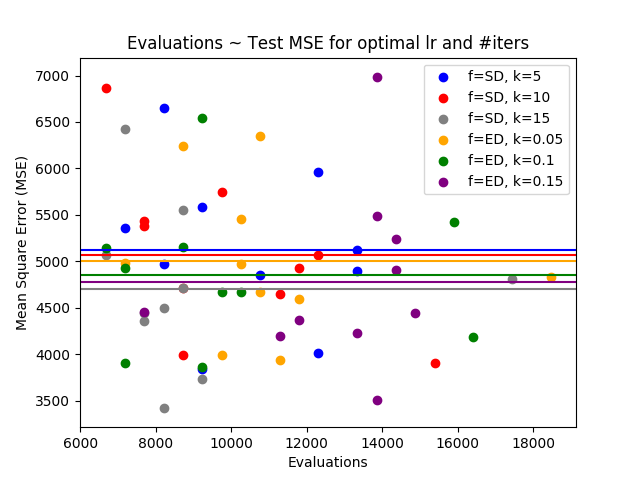
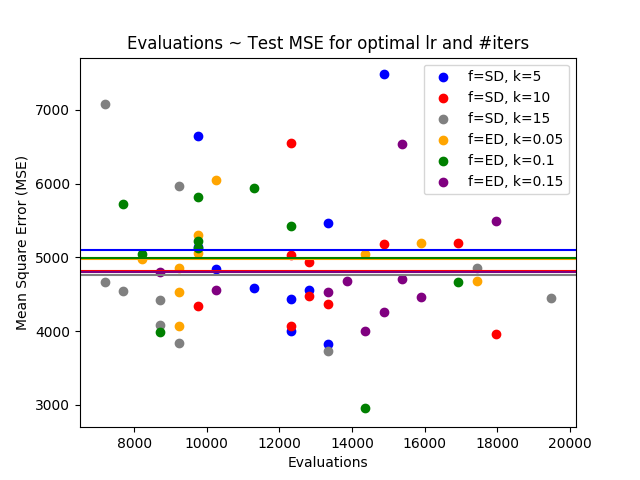
Keep one value constant when evaluating the other and produce new plots

diff --git a/lr_and_iters_grid_search.py b/lr_and_iters_grid_search.py
@@ -139,42 +139,31 @@ var_means_dfs = {
 for var in ["learning_rate", "iterations"]:
     var_str = var.replace("_", " ").capitalize()
 
-    # # MSEs using crossval means
-    # means_df = var_means_dfs[var]
-    # std = df.test_mse.std()
-    # plt.plot(means_df[var], means_df.train_mse, color="blue", label="Train MSE")
-    # plt.plot(means_df[var], means_df.test_mse, color="orange", label="Test MSE")
-    # # plt.fill_between(df[var], y1=df.test_mse-std, y2=df.test_mse+std, color="orange", alpha=0.3)
-    # plt.legend()
-    # if var == "learning_rate":
-    #     plt.xscale("log")
-    # plt.xlabel(var_str)
-    # plt.ylabel("Mean Square Error (MSE)")
-    # plt.title(f"{var_str} ~ Train and test MSE")
-    # plt.show()
+    # When evaluating one variable, keep the other constant
+    sub_df = df[df.iterations == 15] if var == "learning_rate" else df[df.learning_rate == 0.001]
 
     # MSEs in box plots. Force the whiskers to extend to min/max values.
-    data = [df[df[var] == v].test_mse for v in df[var].unique()]
-    plt.boxplot(data, labels=df[var].unique(), whis=float("inf"))
+    data = [sub_df[sub_df[var] == v].test_mse for v in sub_df[var].unique()]
+    plt.boxplot(data, labels=sub_df[var].unique(), whis=float("inf"))
     plt.xlabel(var_str)
     plt.ylabel("Mean Square Error (MSE)")
     plt.title(f"{var_str} ~ Test MSE")
-    plt.savefig(f"./figs/{var}-vs-mse-box.png")
+    # plt.savefig(f"./figs/{var}-vs-mse-box.png")
     plt.show()
 
     # Amount of nodes in the final evolved function
     fig1, ax = plt.subplots()
-    ax.scatter(df[var], df.nodes_amnt)
+    ax.scatter(sub_df[var], sub_df.nodes_amnt)
     ax.set_xlabel(var_str)
     if var == "learning_rate":
         ax.set_xscale("log")
-    unique_vars = df[var].unique()
+    unique_vars = sub_df[var].unique()
     prepend_var = 1e-07 if var == "learning_rate" else 0
     unique_vars = np.insert(unique_vars, 0, prepend_var)
     ax.set_xticks(unique_vars)
     ax.set_ylabel("Amount of nodes in the final function")
     plt.title(f"{var_str} ~ Amount of nodes")
-    plt.savefig(f"./figs/{var}-vs-nodes-scatter.png")
+    # plt.savefig(f"./figs/{var}-vs-nodes-scatter.png")
     plt.show()
 
 # Plot gens vs. MSE to display the effect of backprop with each parameter comb
@@ -188,5 +177,5 @@ plt.legend()
 plt.title("Generations ~ Test MSE")
 plt.xlabel("Generations")
 plt.ylabel("Mean Square Error (MSE)")
-plt.savefig(f"./figs/lr-and-iters-gens-vs-mse-scatter.png")
+# plt.savefig(f"./figs/lr-and-iters-gens-vs-mse-scatter.png")
 plt.show()
